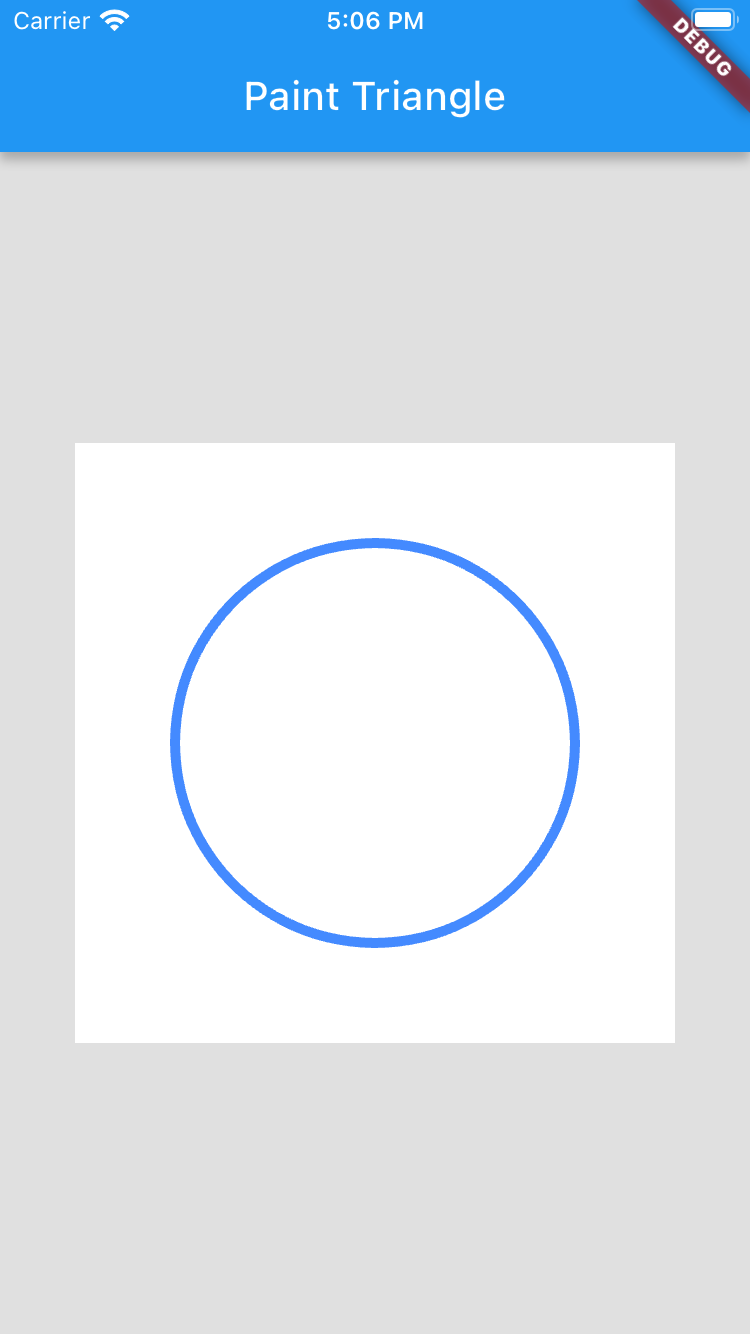
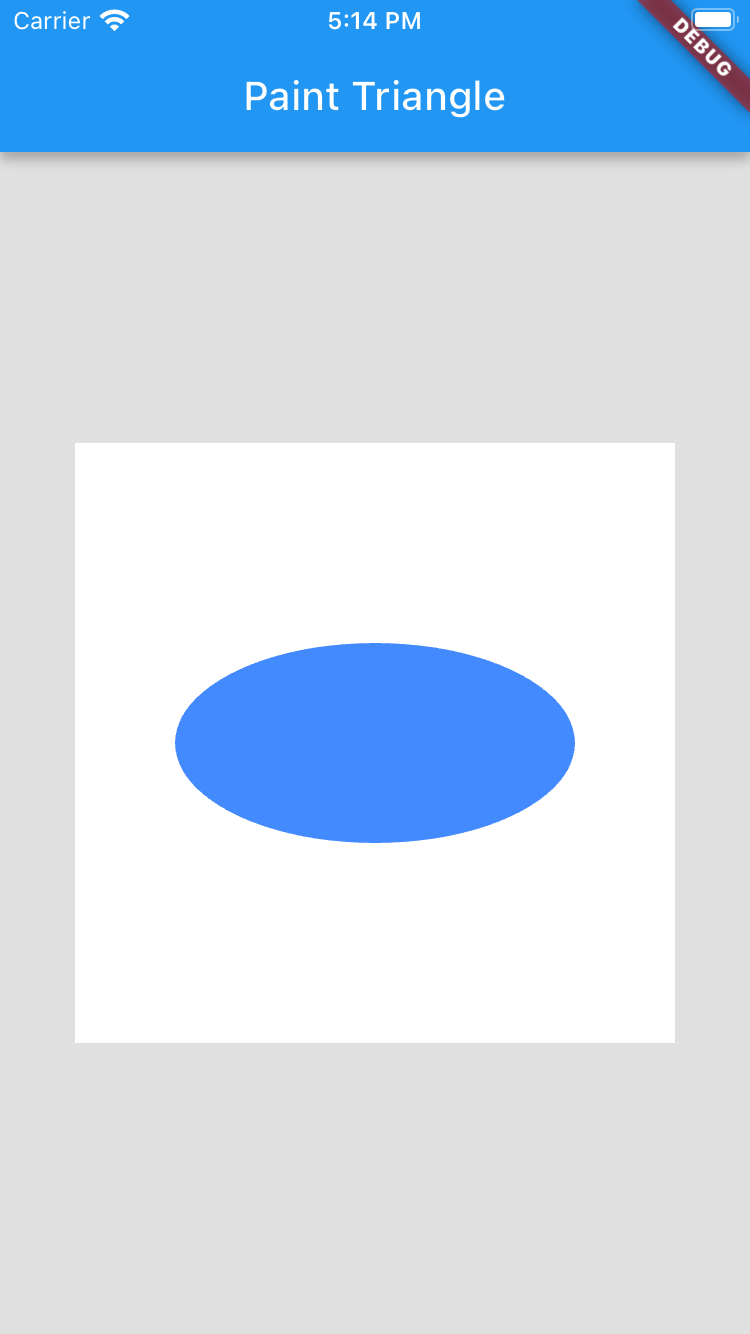
oval

Changed region(s): [[0.2147, 0.3996, 0.7973, 0.7376], [0.4293, 0.0, 0.5827, 0.0307], [0.644, 0.4303, 0.7053, 0.461]]

diff --git a/lib/main.dart b/lib/main.dart
@@ -42,13 +42,15 @@ class MyCustomPainter extends CustomPainter{
   @override
   void paint(Canvas canvas, Size size) {
     // CREATING THE BRUSH
-    Paint brush=Paint()..strokeWidth=5..color=Colors.blueAccent..style = PaintingStyle.fill;
+    Paint brush=Paint()..strokeWidth=5..color=Colors.blueAccent..style = PaintingStyle.stroke;
 
-    // DRAWING THE CIRCLE IN CANVAS
-    //SYNTAX
-    //canvas.drawCircle(LOCATION, SIZE, BRUSH);
+    // DRAWING THE Oval IN CANVAS
+// DRAW OVAL REQUIRED RECT SO WE ARE CREATING RECT FROM CENTER OF OUR CANVAS
+// RECT SYNTAX
+   // final Rect oval =Rect.fromCenter(center:CENTERLOCATION, width: WIDTH, height: HEIGHT);
+    final Rect oval =Rect.fromCenter(center: Offset(size.width/2,size.height/2), width: 200, height: 100);
 
-    canvas.drawCircle(Offset(size.width/2, size.height/2), 100, brush);
+    canvas.drawOval(oval, brush);
   }
 
   @override

diff --git a/README.md b/README.md
@@ -14,13 +14,13 @@ A few resources to get you started if this is your first Flutter project:
 
 # Screenshot 1
 
-<img src="https://github.com/Mirzaazmath/flutter_custompaint_overview/blob/circle/assets/Screenshot1.png" height="400">
+<img src="https://github.com/Mirzaazmath/flutter_custompaint_overview/blob/oval/assets/Screenshot1.png" height="400">
 
 
 
 # Screenshot 2
 
-<img src="https://github.com/Mirzaazmath/flutter_custompaint_overview/blob/circle/assets/Screenshot2.png" height="400">
+<img src="https://github.com/Mirzaazmath/flutter_custompaint_overview/blob/oval/assets/Screenshot2.png" height="400">
 
 - [Lab: Write your first Flutter app](https://docs.flutter.dev/get-started/codelab)
 - [Cookbook: Useful Flutter samples](https://docs.flutter.dev/cookbook)
